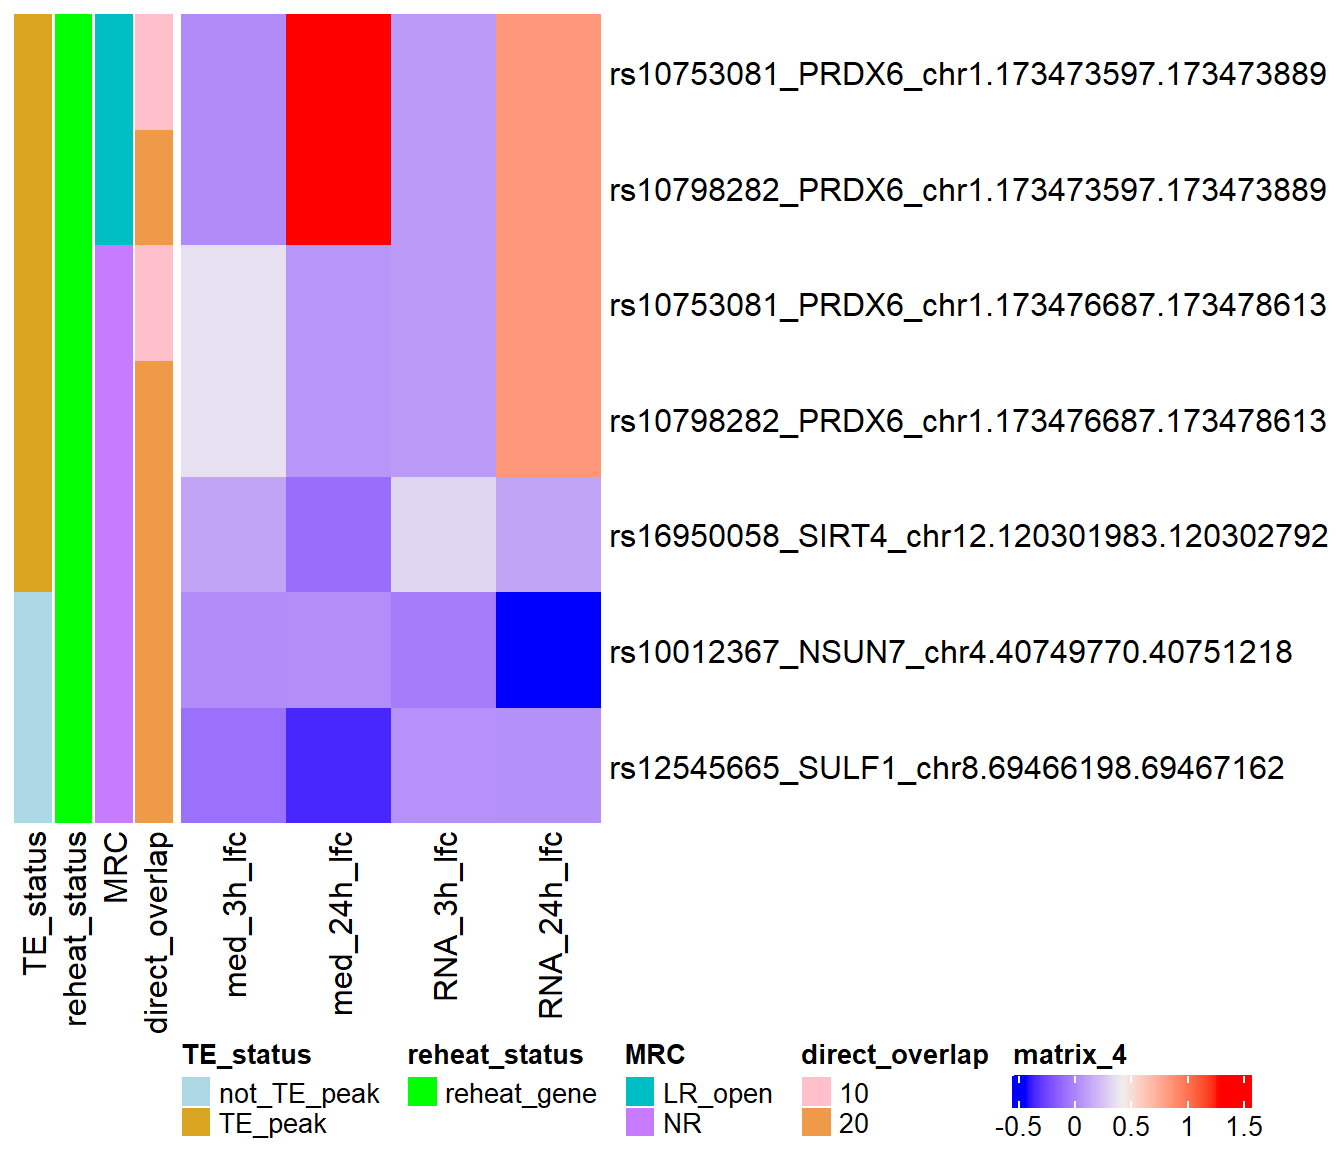
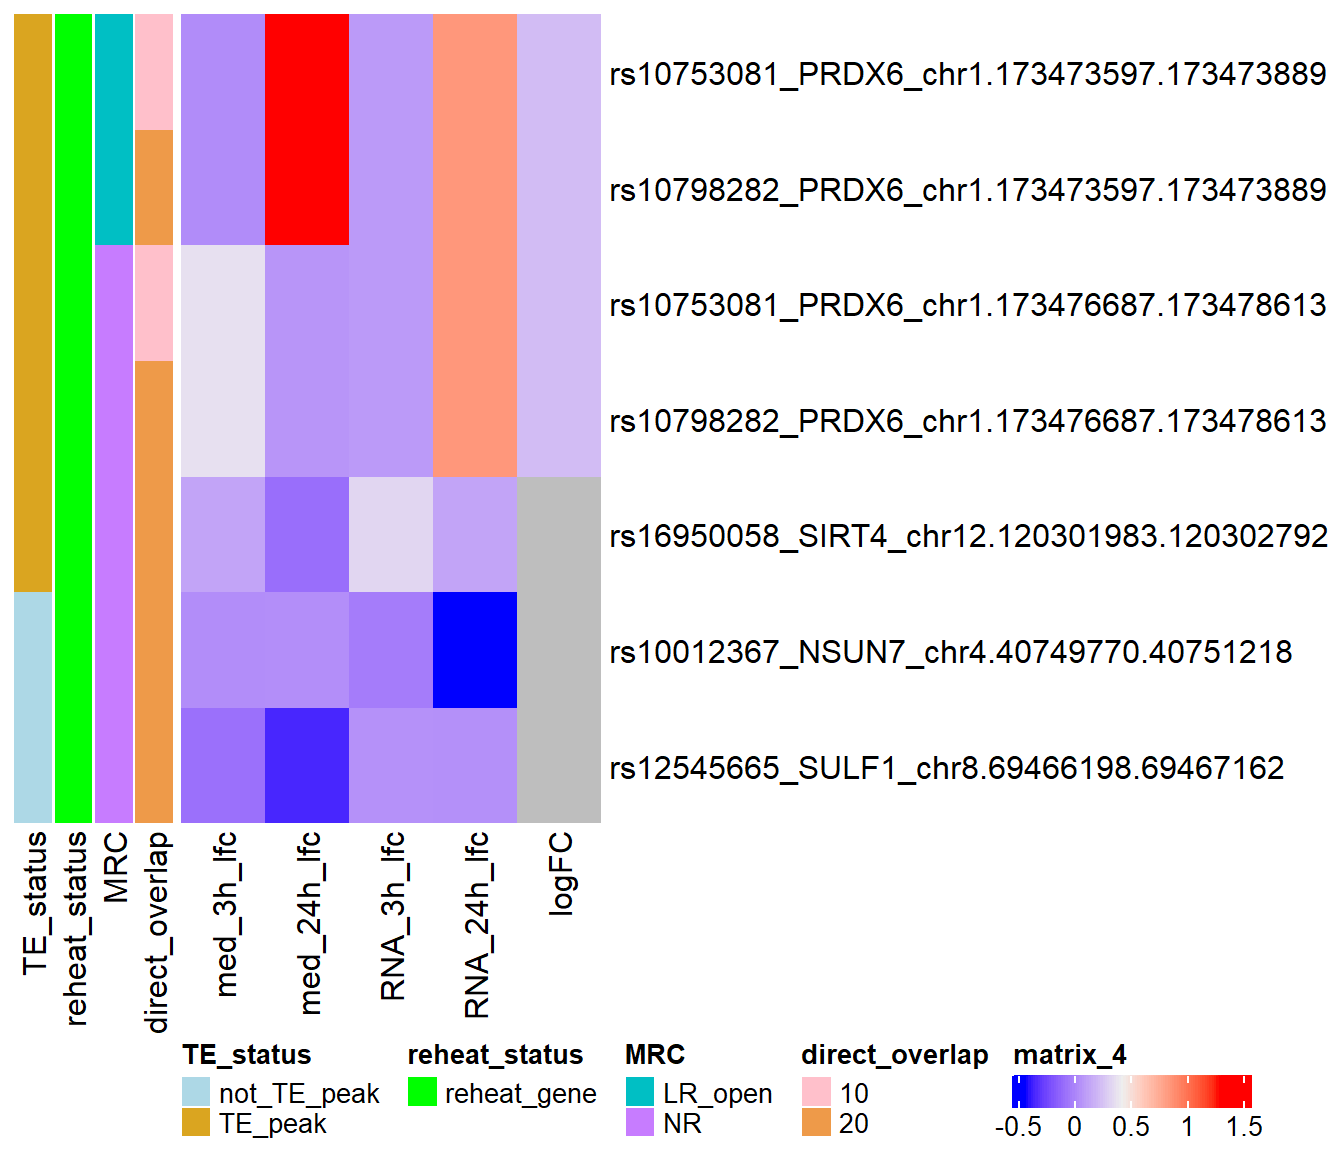
Build site.

diff --git a/docs/Correlation_of_GWASnPEAK.html b/docs/Correlation_of_GWASnPEAK.html
@@ -521,15 +521,15 @@ project makes it easier to run your code on other machines.</p>
 <div class="panel panel-default">
 <div class="panel-heading">
 <p class="panel-title">
-<a data-toggle="collapse" data-parent="#workflowr-checks" href="#strongRepositoryversionstrongahrefhttpsgithubcomreneeisnowhereATAClearningtree3eb76ddbbf20136f4535080e4833cb3f6f5cb9d7targetblank3eb76dda">
+<a data-toggle="collapse" data-parent="#workflowr-checks" href="#strongRepositoryversionstrongahrefhttpsgithubcomreneeisnowhereATAClearningtreeb3248cc2fa2f45072adeed12edba151401fa8a0ftargetblankb3248cca">
 <span class="glyphicon glyphicon-ok text-success"
 aria-hidden="true"></span> <strong>Repository version:</strong>
-<a href="https://github.com/reneeisnowhere/ATAC_learning/tree/3eb76ddbbf20136f4535080e4833cb3f6f5cb9d7" target="_blank">3eb76dd</a>
+<a href="https://github.com/reneeisnowhere/ATAC_learning/tree/b3248cc2fa2f45072adeed12edba151401fa8a0f" target="_blank">b3248cc</a>
 </a>
 </p>
 </div>
 <div
[2 lines of base64/hex data omitted]
 class="panel-collapse collapse">
 <div class="panel-body">
 <p>
@@ -539,7 +539,7 @@ reproducibility.
 </p>
 <p>
 The results in this page were generated with repository version
-<a href="https://github.com/reneeisnowhere/ATAC_learning/tree/3eb76ddbbf20136f4535080e4833cb3f6f5cb9d7" target="_blank">3eb76dd</a>.
+<a href="https://github.com/reneeisnowhere/ATAC_learning/tree/b3248cc2fa2f45072adeed12edba151401fa8a0f" target="_blank">b3248cc</a>.
 See the <em>Past versions</em> tab to see a history of the changes made
 to the R Markdown and HTML files.
 </p>
@@ -744,7 +744,6 @@ Untracked files:
 
 Unstaged changes:
     Modified:   ATAC_learning.Rproj
-    Modified:   analysis/Correlation_of_SNPnPEAK.Rmd
     Modified:   analysis/Enhancer_files_ff.Rmd
     Modified:   analysis/TE_analysis_ff.Rmd
     Modified:   analysis/final_four_analysis.Rmd
@@ -795,6 +794,40 @@ Message
 </tr>
 </thead>
 <tbody>
+<tr>
+<td>
+Rmd
+</td>
+<td>
+<a href="https://github.com/reneeisnowhere/ATAC_learning/blob/b3248cc2fa2f45072adeed12edba151401fa8a0f/analysis/Correlation_of_GWASnPEAK.Rmd" target="_blank">b3248cc</a>
+</td>
+<td>
+E. Renee Matthews
+</td>
+<td>
+2025-01-21
+</td>
+<td>
+adding in protein data
+</td>
+</tr>
+<tr>
+<td>
+html
+</td>
+<td>
+<a href="https://rawcdn.githack.com/reneeisnowhere/ATAC_learning/fb6aa7a4af23149ac42825fc6c8cc38d9bd4647d/docs/Correlation_of_GWASnPEAK.html" target="_blank">fb6aa7a</a>
+</td>
+<td>
+E. Renee Matthews
+</td>
+<td>
+2025-01-21
+</td>
+<td>
+Build site.
+</td>
+</tr>
 <tr>
 <td>
 Rmd
@@ -3200,7 +3233,14 @@ ATAC_LFC &lt;- Collapsed_new_peaks %&gt;%
 1057   HF
 1058   HF
 1059   HF</code></pre>
-<pre class="r"><code> rtracklayer::export.bed(Short_gwas_gr,&quot;data/Final_four_data/ARR_HF_SNP_local.bed&quot;, index=TRUE)</code></pre>
+<pre class="r"><code> # rtracklayer::export.bed(Short_gwas_gr,&quot;data/Final_four_data/ARR_HF_SNP_local.bed&quot;)
+ # 
+ 
+ Dox_prot &lt;- readRDS(&quot;data/other_papers/Dox_proteome_paper.RDS&quot;)
+proto_list &lt;- Dox_prot %&gt;% 
+  group_by(SYMBOL,logFC) %&gt;% 
+  summarize(ENTREZID=paste(unique(ENTREZID),collapse=&quot;;&quot;),
+            Protein=paste(unique(Protein),collapse=&quot;;&quot;))</code></pre>
 <p>Here I am doing the overlapping of the previous ranges of SNPs and
 the full ATAC peak set. I also later create the data frames from the
 reheat data, the reheat data using the p&lt;0.005 top genes, the cluster
@@ -3673,11 +3713,12 @@ gave me 33 ATAC-SNP-RNA rows.</p>
            reheat=paste(unique(reheat),collapse=&quot;;&quot;),
           mrc=unique(mrc),
           dist_to_SNP=min(dist_to_SNP)) %&gt;% 
-   arrange(., Peakid)
+   arrange(., Peakid)%&gt;% 
+  left_join(., proto_list, by=c(&quot;SYMBOL&quot;=&quot;SYMBOL&quot;))
  
 gwas_mat_short &lt;- gwas_df_short %&gt;% 
   ungroup() %&gt;% 
-  dplyr::select(name,med_3h_lfc:RNA_24h_lfc) %&gt;% 
+  dplyr::select(name,med_3h_lfc:RNA_24h_lfc,logFC) %&gt;% 
   column_to_rownames(&quot;name&quot;) %&gt;% 
   as.matrix()
 gwas_name_mat_short &lt;- gwas_df_short %&gt;% 
@@ -3738,6 +3779,17 @@ Date
 </tr>
 </thead>
 <tbody>
+<tr>
+<td>
+<a href="https://github.com/reneeisnowhere/ATAC_learning/blob/fb6aa7a4af23149ac42825fc6c8cc38d9bd4647d/docs/figure/Correlation_of_GWASnPEAK.Rmd/noRNA-1.png" target="_blank">fb6aa7a</a>
+</td>
+<td>
+E. Renee Matthews
+</td>
+<td>
+2025-01-21
+</td>
+</tr>
 <tr>
 <td>
 <a href="https://github.com/reneeisnowhere/ATAC_learning/blob/a505a0aa1c85fe973804a15c78cc021fd23096bd/docs/figure/Correlation_of_GWASnPEAK.Rmd/noRNA-1.png" target="_blank">a505a0a</a>
@@ -3831,6 +3883,17 @@ Date
 <tbody>
 <tr>
 <td>
+<a href="https://github.com/reneeisnowhere/ATAC_learning/blob/fb6aa7a4af23149ac42825fc6c8cc38d9bd4647d/docs/figure/Correlation_of_GWASnPEAK.Rmd/unnamed-chunk-3-1.png" target="_blank">fb6aa7a</a>
+</td>
+<td>
+E. Renee Matthews
+</td>
+<td>
+2025-01-21
+</td>
+</tr>
+<tr>
+<td>
 <a href="https://github.com/reneeisnowhere/ATAC_learning/blob/a505a0aa1c85fe973804a15c78cc021fd23096bd/docs/figure/Correlation_of_GWASnPEAK.Rmd/unnamed-chunk-3-1.png" target="_blank">a505a0a</a>
 </td>
 <td>
@@ -3896,6 +3959,17 @@ Date
 </tr>
 </thead>
 <tbody>
+<tr>
+<td>
+<a href="https://github.com/reneeisnowhere/ATAC_learning/blob/fb6aa7a4af23149ac42825fc6c8cc38d9bd4647d/docs/figure/Correlation_of_GWASnPEAK.Rmd/unnamed-chunk-3-2.png" target="_blank">fb6aa7a</a>
+</td>
+<td>
+E. Renee Matthews
+</td>
+<td>
+2025-01-21
+</td>
+</tr>
 <tr>
 <td>
 <a href="https://github.com/reneeisnowhere/ATAC_learning/blob/a505a0aa1c85fe973804a15c78cc021fd23096bd/docs/figure/Correlation_of_GWASnPEAK.Rmd/unnamed-chunk-3-2.png" target="_blank">a505a0a</a>

diff --git a/docs/Correlation_of_SNPnPEAK.html b/docs/Correlation_of_SNPnPEAK.html
@@ -521,15 +521,15 @@ project makes it easier to run your code on other machines.</p>
 <div class="panel panel-default">
 <div class="panel-heading">
 <p class="panel-title">
-<a data-toggle="collapse" data-parent="#workflowr-checks" href="#strongRepositoryversionstrongahrefhttpsgithubcomreneeisnowhereATAClearningtree1652dee94b2e62c2ef8608f0b432f975ecc8eb97targetblank1652deea">
+<a data-toggle="collapse" data-parent="#workflowr-checks" href="#strongRepositoryversionstrongahrefhttpsgithubcomreneeisnowhereATAClearningtreeb3248cc2fa2f45072adeed12edba151401fa8a0ftargetblankb3248cca">
 <span class="glyphicon glyphicon-ok text-success"
 aria-hidden="true"></span> <strong>Repository version:</strong>
-<a href="https://github.com/reneeisnowhere/ATAC_learning/tree/1652dee94b2e62c2ef8608f0b432f975ecc8eb97" target="_blank">1652dee</a>
+<a href="https://github.com/reneeisnowhere/ATAC_learning/tree/b3248cc2fa2f45072adeed12edba151401fa8a0f" target="_blank">b3248cc</a>
 </a>
 </p>
 </div>
 <div
[2 lines of base64/hex data omitted]
 class="panel-collapse collapse">
 <div class="panel-body">
 <p>
@@ -539,7 +539,7 @@ reproducibility.
 </p>
 <p>
 The results in this page were generated with repository version
-<a href="https://github.com/reneeisnowhere/ATAC_learning/tree/1652dee94b2e62c2ef8608f0b432f975ecc8eb97" target="_blank">1652dee</a>.
+<a href="https://github.com/reneeisnowhere/ATAC_learning/tree/b3248cc2fa2f45072adeed12edba151401fa8a0f" target="_blank">b3248cc</a>.
 See the <em>Past versions</em> tab to see a history of the changes made
 to the R Markdown and HTML files.
 </p>
@@ -744,7 +744,6 @@ Untracked files:
 
 Unstaged changes:
     Modified:   ATAC_learning.Rproj
-    Modified:   analysis/Correlation_of_GWASnPEAK.Rmd
     Modified:   analysis/Enhancer_files_ff.Rmd
     Modified:   analysis/TE_analysis_ff.Rmd
     Modified:   analysis/final_four_analysis.Rmd
@@ -795,6 +794,40 @@ Message
 </tr>
 </thead>
 <tbody>
+<tr>
+<td>
+Rmd
+</td>
+<td>
+<a href="https://github.com/reneeisnowhere/ATAC_learning/blob/b3248cc2fa2f45072adeed12edba151401fa8a0f/analysis/Correlation_of_SNPnPEAK.Rmd" target="_blank">b3248cc</a>
+</td>
+<td>
+E. Renee Matthews
+</td>
+<td>
+2025-01-21
+</td>
+<td>
+adding in protein data
+</td>
+</tr>
+<tr>
+<td>
+html
+</td>
+<td>
+<a href="https://rawcdn.githack.com/reneeisnowhere/ATAC_learning/949b32be65df1cd41ba3d58e5c1549e1e736f279/docs/Correlation_of_SNPnPEAK.html" target="_blank">949b32b</a>
+</td>
+<td>
+E. Renee Matthews
+</td>
+<td>
+2025-01-21
+</td>
+<td>
+Build site.
+</td>
+</tr>
 <tr>
 <td>
 Rmd
@@ -1283,7 +1316,23 @@ SNP_closest_genes &lt;- overlap_SNP_gene_ensembl %&gt;%
 ATAC_LFC &lt;- Collapsed_new_peaks %&gt;%
                  dplyr::select(Peakid) %&gt;% 
   left_join(.,(ATAC_3_lfc %&gt;% dplyr::select(peak, med_3h_lfc)), by=c(&quot;Peakid&quot;=&quot;peak&quot;)) %&gt;% 
-  left_join(.,(ATAC_24_lfc %&gt;% dplyr::select(peak, med_24h_lfc)), by=c(&quot;Peakid&quot;=&quot;peak&quot;))</code></pre>
+  left_join(.,(ATAC_24_lfc %&gt;% dplyr::select(peak, med_24h_lfc)), by=c(&quot;Peakid&quot;=&quot;peak&quot;))
+            
+#### adding in protein LFC data from Omar and Sayan&#39;s paper, unpublished data, pending acceptance.
+# Proteomics_data &lt;- read_excel(&quot;data/other_papers/Proteomics_data.xlsx&quot;, 
+#     skip = 1)
+# Dox_prot &lt;- Proteomics_data %&gt;% 
+#   dplyr::select(Protein, logFC) %&gt;% 
+#   left_join(., idmapping_2025_01_21ENTREZID, by =c(&quot;Protein&quot;=&quot;From&quot;))%&gt;% 
+#   dplyr::rename(&quot;ENTREZID&quot;=To) %&gt;% 
+#   left_join(., idmapping_2025_01_SYMBOL, by=c(&quot;Protein&quot;=&quot;From&quot;)) %&gt;% 
+#   dplyr::rename(&quot;SYMBOL&quot;=To)
+# saveRDS(Dox_prot,&quot;data/other_papers/Dox_proteome_paper.RDS&quot;)
+Dox_prot &lt;- readRDS(&quot;data/other_papers/Dox_proteome_paper.RDS&quot;)
+proto_list &lt;- Dox_prot %&gt;% 
+  group_by(SYMBOL,logFC) %&gt;% 
+  summarize(ENTREZID=paste(unique(ENTREZID),collapse=&quot;;&quot;),
+            Protein=paste(unique(Protein),collapse=&quot;;&quot;))</code></pre>
 <pre class="r"><code># new_SNP_peak_check &lt;-   readRDS(&quot;data/Final_four_data/new_SNP_peak_check.RDS&quot;)
 point_only &lt;- SNP_peak_check
 SNP_10k_only &lt;- SNP_peak_check_10k
@@ -1915,11 +1964,12 @@ class="section level3">
            reheat=paste(unique(reheat),collapse=&quot;;&quot;),
           mrc=unique(mrc),
           dist_to_SNP=min(dist_to_SNP))  %&gt;% 
-  arrange(., Peakid)
+  arrange(., Peakid) %&gt;% 
+  left_join(., proto_list, by=c(&quot;SYMBOL&quot;=&quot;SYMBOL&quot;))
 
 schneider_mat_short &lt;- schneider_df_short %&gt;% 
   ungroup() %&gt;% 
-  dplyr::select(name,med_3h_lfc:RNA_24h_lfc) %&gt;% 
+  dplyr::select(name,med_3h_lfc:RNA_24h_lfc,logFC) %&gt;% 
   column_to_rownames(&quot;name&quot;) %&gt;% 
   as.matrix()
 schneider_name_mat_short &lt;- schneider_df_short %&gt;% 
@@ -1979,6 +2029,17 @@ Date
 </tr>
 </thead>
 <tbody>
+<tr>
+<td>
+<a href="https://github.com/reneeisnowhere/ATAC_learning/blob/949b32be65df1cd41ba3d58e5c1549e1e736f279/docs/figure/Correlation_of_SNPnPEAK.Rmd/noRNA-1.png" target="_blank">949b32b</a>
+</td>
+<td>
+E. Renee Matthews
+</td>
+<td>
+2025-01-21
+</td>
+</tr>
 <tr>
 <td>
 <a href="https://github.com/reneeisnowhere/ATAC_learning/blob/17a22e96be4f6e9b460ae63b1edc6a927273516b/docs/figure/Correlation_of_SNPnPEAK.Rmd/noRNA-1.png" target="_blank">17a22e9</a>
